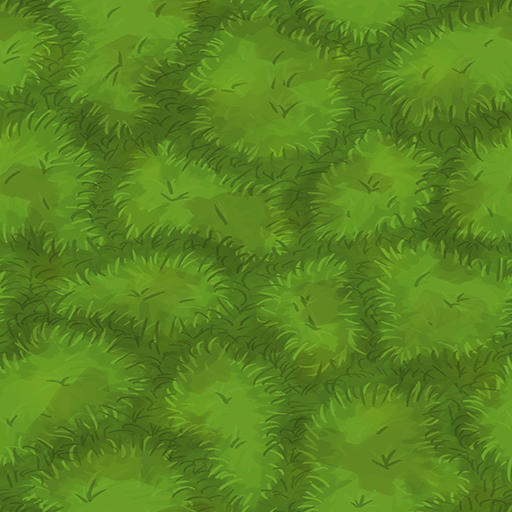
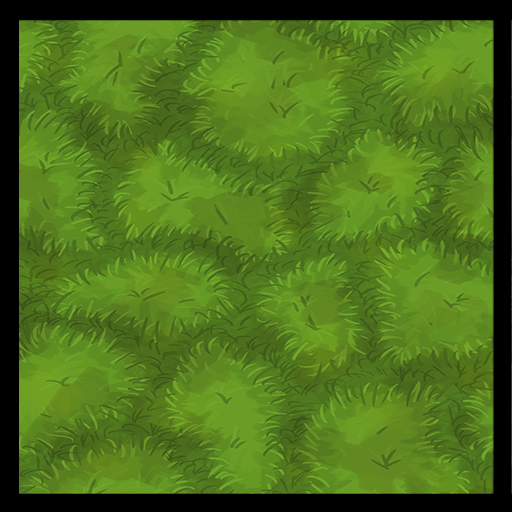
Elimina los muros intermedios

Changed region(s): [[0.0, 0.0, 1.0, 1.0]]

diff --git a/src/main.cpp b/src/main.cpp
@@ -14,6 +14,7 @@
 #include <iostream>
 #include <fstream>
 
+// TODO mejorar respuesta del esc, no permitir pinchar fuera
 int Malla::PorcentajeDeObstaculos = 10;
 std::ifstream Malla::fichero_;
 int opcion_heuristico = 0;
@@ -24,7 +25,7 @@ int opcion_heuristico = 0;
  * @param window ventana para hacer el proceso interactivo
  * @param malla Guarda los cambios en la malla, para poder trabajar con los datos
  */
-static void modificarTerreno(sf::RenderWindow& window, Malla& malla);
+static void modificarTerreno(sf::RenderWindow& window);
 
 int casoFichero(int argc, char* argv[]);
 /**
@@ -33,11 +34,9 @@ int casoFichero(int argc, char* argv[]);
  * @param window Muestralo a travez de esta ventana
  * @param malla Malla donde se va a mover el coche que vamos a crear dentro
  */
-void main_loop(sf::RenderWindow& window, Malla& malla, std::vector<Celda*> recorrido)
+void main_loop(sf::RenderWindow& window, std::vector<Celda*> recorrido)
 {
-  Coche coche(malla[0][0].getSize(), recorrido);
-  sf::View view = window.getDefaultView();
-
+  Coche coche(Malla::get_instance()[0][0].getSize(), recorrido);
   while (window.isOpen())
   {
     sf::Event event;
@@ -48,22 +47,9 @@ void main_loop(sf::RenderWindow& window, Malla& malla, std::vector<Celda*> recor
       {
         window.close();
       }
-      if (event.type == sf::Event::MouseWheelScrolled)
-      {
-        if (event.mouseWheelScroll.delta < 0)
-        {
-          view.zoom(1.10);
-        }
-        else
-        {
-          view.zoom(0.90);
-        }
-      }
     }
-    view.setCenter(sf::Mouse::getPosition(window).x, sf::Mouse::getPosition(window).y);
-    window.setView(view);
     window.clear();
-    malla.draw(window);
+    Malla::get_instance().draw(window);
     window.draw(coche);
     window.display();
     coche.Move();
@@ -102,7 +88,7 @@ int main(int argc, char* argv[])
 
   sf::RenderWindow window(sf::VideoMode::getDesktopMode(), "IA-COCHE", sf::Style::Fullscreen);
   window.setFramerateLimit(15);
-  modificarTerreno(window, Malla::get_instance());
+  modificarTerreno(window);
   // Pongo el sleep porque el programa me detecta el enter de forma prematura
   sf::sleep(sf::seconds(0.25));
 
@@ -133,14 +119,14 @@ int main(int argc, char* argv[])
       std::reverse(recorrido.begin(), recorrido.end());
     }
 
-    main_loop(window, Malla::get_instance(), recorrido);
+    main_loop(window, recorrido);
   }
   return 0;
 }
 
-void modificarTerreno(sf::RenderWindow& window, Malla& malla)
+void modificarTerreno(sf::RenderWindow& window)
 {
-  while (window.isOpen() && !(sf::Keyboard::isKeyPressed(sf::Keyboard::Enter) && malla.haySalidayEntrada()))
+  while (window.isOpen())
   {
     sf::Event event;
     while (window.pollEvent(event))
@@ -152,22 +138,26 @@ void modificarTerreno(sf::RenderWindow& window, Malla& malla)
       }
       if (event.type == sf::Event::MouseButtonPressed)
       {
-        malla.Click(sf::Mouse::getPosition(window).x, sf::Mouse::getPosition(window).y);
+        Malla::get_instance().Click(sf::Mouse::getPosition(window).x, sf::Mouse::getPosition(window).y);
       }
       if (event.type == sf::Event::KeyPressed)
       {
         if (event.key.code == sf::Keyboard::Space)
         {
-          malla.Control_Entrada_Pixel(sf::Mouse::getPosition(window).x, sf::Mouse::getPosition(window).y);
+          Malla::get_instance().Control_Entrada_Pixel(sf::Mouse::getPosition(window).x, sf::Mouse::getPosition(window).y);
         }
         else if (event.key.code == sf::Keyboard::LControl)
         {
-          malla.Control_Salida_Pixel(sf::Mouse::getPosition(window).x, sf::Mouse::getPosition(window).y);
+          Malla::get_instance().Control_Salida_Pixel(sf::Mouse::getPosition(window).x, sf::Mouse::getPosition(window).y);
+        }
+        else if (event.key.code == sf::Keyboard::Enter && Malla::get_instance().haySalidayEntrada())
+        {
+          return;
         }
       }
     }
     window.clear();
-    malla.draw(window);
+    Malla::get_instance().draw(window);
     window.display();
   }
 }

diff --git a/src/Celda.cpp b/src/Celda.cpp
@@ -12,17 +12,6 @@ Celda::Celda(float tamano)
   retorno_ = nullptr;
   setEstado(vr::DEFAULT);
   celda.setSize(sf::Vector2f(tamano, tamano));
-
-  auto acortamiento = 25;
-  muros[0].setSize(sf::Vector2f(tamano, tamano / acortamiento));
-  muros[1].setSize(sf::Vector2f(tamano, tamano / acortamiento));
-  muros[2].setSize(sf::Vector2f(tamano / acortamiento, tamano));
-  muros[3].setSize(sf::Vector2f(tamano / acortamiento, tamano));
-
-  for (int i = 0; i < 4; i++)
-  {
-    muros[i].setFillColor(sf::Color::Black);
-  }
 }
 
 Celda::Celda(const Celda& celda2)
@@ -32,16 +21,6 @@ Celda::Celda(const Celda& celda2)
   retorno_ = celda2.retorno_;
   setEstado(celda2.Estado_);
   celda.setSize(sf::Vector2f(celda2.celda.getSize()));
-
-  for (int i = 0; i < 4; i++)
-  {
-    muros[i].setSize(celda2.muros[i].getSize());
-  }
-
-  for (int i = 0; i < 4; i++)
-  {
-    muros[i].setFillColor(celda2.muros[i].getFillColor());
-  }
 }
 
 Celda::~Celda()
@@ -77,11 +56,6 @@ void Celda::setRetorno(Celda* celda)
 {
   retorno_ = celda;
 }
-
-// const Celda* Celda::getRetorno()
-// {
-//   return retorno_;
-// }
 
 Celda* Celda::getRetorno() const
 {
@@ -139,11 +113,6 @@ void Celda::setPosicion(int i, int j)
 
   celda.setPosition((celda.getSize().y) * (float)j_,
                     (celda.getSize().x) * (float)i_);
-  for (int z = 0; z < 4; z++)
-  {
-    muros[z].setPosition(sf::Vector2f(celda.getPosition().x,
-                                      celda.getPosition().y));
-  }
 }
 
 const sf::Vector2f& Celda::getSize() const
@@ -154,8 +123,4 @@ const sf::Vector2f& Celda::getSize() const
 void Celda::draw(sf::RenderTarget& target, sf::RenderStates states) const
 {
   target.draw(celda);
-  for (int i = 0; i < 4; i++)
-  {
-    target.draw(muros[i]);
-  }
 }

diff --git a/include/Celda.hpp b/include/Celda.hpp
@@ -22,10 +22,6 @@ class Celda: public sf::Drawable
      * @celda Instancia para la interfaz
      */
     sf::RectangleShape celda;
-    /**
-     * @muros Los 4 muros que rodean cada celda, para cear el efecto de malla
-     */
-    std::array<sf::RectangleShape, 4> muros;
 
   public:
     /**
